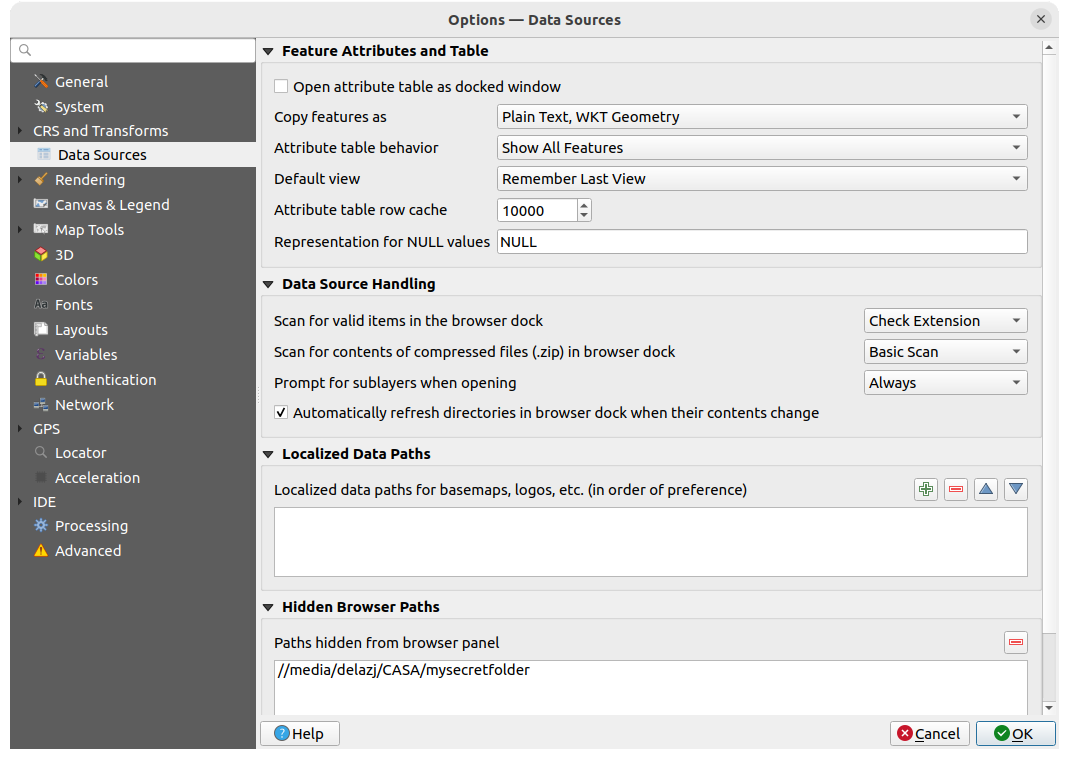
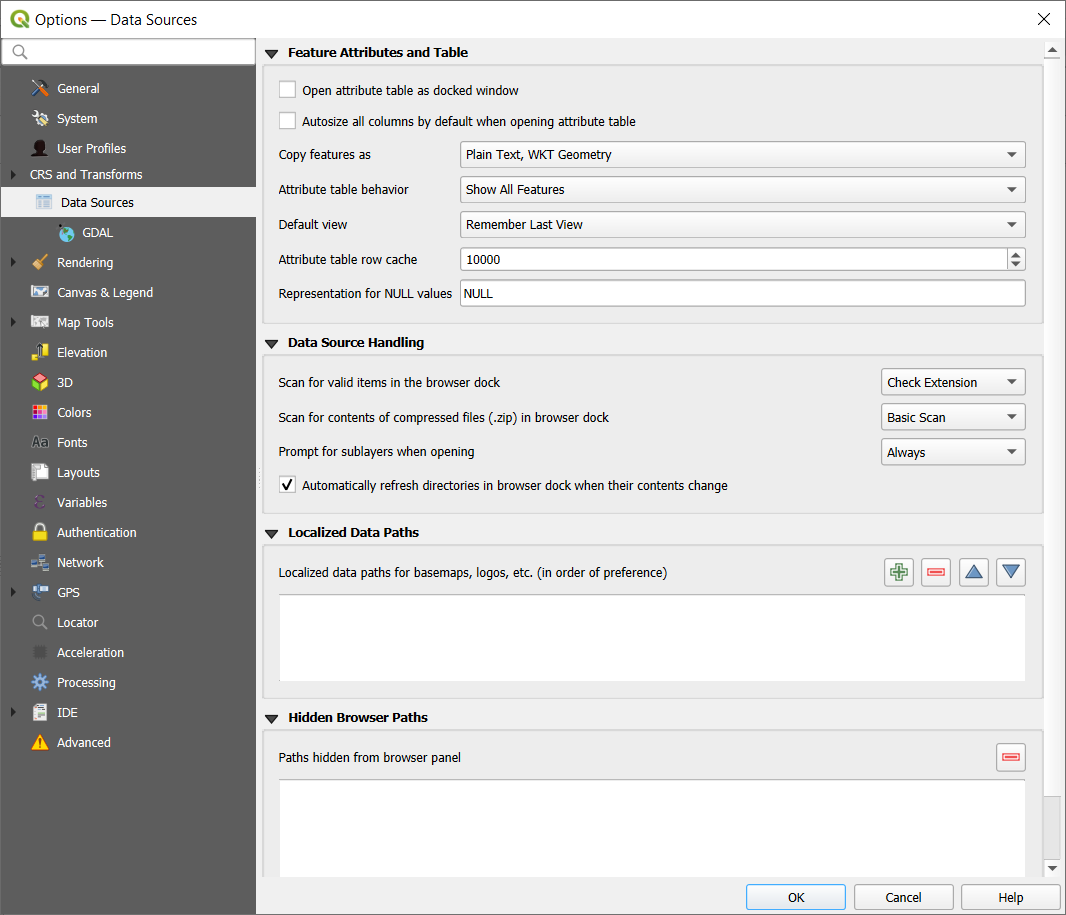
Autosize all columns by default

diff --git a/docs/user_manual/working_with_vector/attribute_table.rst b/docs/user_manual/working_with_vector/attribute_table.rst
@@ -194,6 +194,10 @@ A column size can also be changed by dragging the boundary on the right of its
 heading. The new size of the column is maintained for the layer, and restored at
 the next opening of the attribute table.
 
+In the :ref:`Data Source Settings <datasources_options>`, you can choose to
+|checkbox| :guilabel:`Autosize all columns by default when opening attribute table`,
+which will make "Autosize All Columns" the default view every time attribute tables are opened in QGIS. 
+
 .. _organize_columns:
 
 Hiding and organizing columns and enabling actions

diff --git a/docs/user_manual/introduction/qgis_configuration.rst b/docs/user_manual/introduction/qgis_configuration.rst
@@ -403,6 +403,7 @@ Data Sources settings
 **Feature attributes and table**
 
 * |checkbox| :guilabel:`Open attribute table as docked window`
+* |checkbox| :guilabel:`Autosize all columns by default when opening attribute table`
 * :guilabel:`Copy features as`: defines the format to use for data when pasting
   features in other applications.
 
